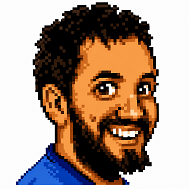
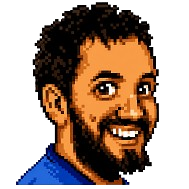
caras

diff --git a/js/gamelogic.js b/js/gamelogic.js
@@ -1,84 +1,5 @@
-const config = {
-    type: Phaser.AUTO, 
-    width: 800, 
-    height: 600, 
-    backgroundColor: '#2d862d',
-    contextOptions: {
-        willReadFrequently: true
-    },
-    scene: { 
-        preload: preload,
-        create: create 
-    }
-};
-
-const game = new Phaser.Game(config);
-
-function preload() {
-    this.load.image('fondoCancha', 'bg/penales.png');
-}
-
-function create() {
-    // 1. Dibujar el fondo estirado
-    let fondo = this.add.image(400, 300, 'fondoCancha');
-    fondo.setDisplaySize(800, 600);
-
-    // 2. MEDIDAS FINALES: Ajuste de 5px hacia arriba
-    const arcoX = 200;       // Centrado perfecto (va de 200 a 600)
-    const arcoY = 95;        // SUBIDO: El travesaño sube a Y=95 para calzar el madero superior
-    const arcoAncho = 400;   // El ancho que calzó perfecto
-    const arcoAlto = 135;    // COMPENSADO: Sumamos 5px de alto para mantener la base en el pasto
-
-    const celdaAncho = arcoAncho / 5; // 80px cada columna
-    const celdaAlto = arcoAlto / 3;   // 45px cada fila exacta
-
-    // Guardamos las medidas en window para usarlas en ejecutarDisparo
-    window.arcoConfig = {
-        x: arcoX,
-        y: arcoY,
-        anchoCelda: celdaAncho,
-        altoCelda: celdaAlto
-    };
-
-
-
-    window.marcadorTexto = this.add.text(400, 30, 'P1: 0 - CPU: 0', { fontSize: '32px', fill: '#ffffff', fontStyle: 'bold' }).setOrigin(0.5);
-    this.add.rectangle(400, 550, 200, 20, 0x555555);
-    window.barraTiempo = this.add.rectangle(300, 550, 200, 20, 0x00ff00).setOrigin(0, 0.5);
-    
-    // Pelota blanca arrancando más abajo cerca de tu HUD (Y=520)
-    window.ball = this.add.circle(400, 520, 15, 0xffffff).setStrokeStyle(2, 0x000000);
-
-    // Crear las 15 zonas interactivas rectangulares
-    for (let col = 0; col < 5; col++) {
-        for (let row = 0; row < 3; row++) {
-            let x = arcoX + (col * celdaAncho) + (celdaAncho / 2);
-            let y = arcoY + (row * celdaAlto) + (celdaAlto / 2);
-            
-            // Opacidad casi invisible para que aprecies el pixelart pero detecte el clic
-            let zona = this.add.rectangle(x, y, celdaAncho, celdaAlto, 0xff0000, 0.01).setStrokeStyle(1, 0xffffff, 0.15).setInteractive();
-            
-            zona.on('pointerdown', () => {
-                if (window.esTurnoP1 && !window.esperandoAtajada) {
-                    let arqueroCol = Math.floor(Math.random() * 5);
-                    let arqueroRow = Math.floor(Math.random() * 3);
-                    ejecutarDisparo(this, col, row, arqueroCol, arqueroRow, true);
-                } else if (window.esperandoAtajada) {
-                    window.tuColA = col; 
-                    window.tuRowA = row;
-                    let c = window.zonaGolCPU % 5;
-                    let r = Math.floor(window.zonaGolCPU / 5);
-                    ejecutarDisparo(this, c, r, window.tuColA, window.tuRowA, false);
-                }
-            });
-        }
-    }
-    
-    actualizarRetratos(this);
-    iniciarBarra(this, true);
-}
-
 function ejecutarDisparo(escena, colT, rowT, colA, rowA, esJugador) {
+    window.barraTiempo.scaleX = 1; 
     escena.tweens.killTweensOf(window.barraTiempo);
     
     colT = Math.max(0, Math.min(4, colT));
@@ -87,8 +8,6 @@ function ejecutarDisparo(escena, colT, rowT, colA, rowA, esJugador) {
     rowA = Math.max(0, Math.min(2, rowA));
 
     const cfg = window.arcoConfig;
-
-    // Coordenadas calculadas en base al arco estirado
     let xT = cfg.x + (colT * cfg.anchoCelda) + (cfg.anchoCelda / 2);
     let yT = cfg.y + (rowT * cfg.altoCelda) + (cfg.altoCelda / 2);
     let xA = cfg.x + (colA * cfg.anchoCelda) + (cfg.anchoCelda / 2);
@@ -101,21 +20,21 @@ function ejecutarDisparo(escena, colT, rowT, colA, rowA, esJugador) {
         tipoResultado = "PALO";
         let elegirPalo = Math.random();
         if (elegirPalo < 0.4) { 
-            xT = cfg.x; // Palo izquierdo real
+            xT = cfg.x; 
         } else if (elegirPalo < 0.8) { 
-            xT = cfg.x + (cfg.anchoCelda * 5); // Palo derecho real
+            xT = cfg.x + 400; 
         } else { 
-            xT = Math.floor(Math.random() * ((cfg.x + cfg.anchoCelda * 5) - cfg.x + 1)) + cfg.x; 
-            yT = cfg.y; // Travesaño real
+            xT = Math.floor(Math.random() * ((cfg.x + 400) - cfg.x + 1)) + cfg.x; 
+            yT = cfg.y; 
         }
     } else if (rng < 0.15) {
         tipoResultado = "AFUERA";
         let elegirAfuera = Math.random();
         if (elegirAfuera < 0.33) { 
-            xT = Math.floor(Math.random() * ((cfg.x - 10) - (cfg.x - 60) + 1)) + (cfg.x - 60); 
+            xT = Math.floor(Math.random() * ((cfg.x - 10) - (cfg.x - 50) + 1)) + (cfg.x - 50); 
         } else if (elegirAfuera < 0.66) { 
-            let limiteDer = cfg.x + (cfg.anchoCelda * 5);
-            xT = Math.floor(Math.random() * ((limiteDer + 60) - (limiteDer + 10) + 1)) + (limiteDer + 10); 
+            let limiteDer = cfg.x + 400; 
+            xT = Math.floor(Math.random() * ((limiteDer + 50) - (limiteDer + 10) + 1)) + (limiteDer + 10); 
         } else { 
             yT = Math.floor(Math.random() * ((cfg.y - 10) - (cfg.y - 50) + 1)) + (cfg.y - 50); 
         }
@@ -125,22 +44,13 @@ function ejecutarDisparo(escena, colT, rowT, colA, rowA, esJugador) {
     
     if(window.rectTiro) window.rectTiro.destroy(); 
     if(window.rectArquero) window.rectArquero.destroy();
-    
-    // Dibujamos las marcas rectangulares estables sobre las dimensiones reales del arco
     window.rectTiro = escena.add.rectangle(cfg.x + (colT * cfg.anchoCelda) + (cfg.anchoCelda / 2), cfg.y + (rowT * cfg.altoCelda) + (cfg.altoCelda / 2), cfg.anchoCelda, cfg.altoCelda).setStrokeStyle(4, 0x3366ff);
     window.rectArquero = escena.add.rectangle(xA, yA, cfg.anchoCelda, cfg.altoCelda).setStrokeStyle(4, esJugador ? 0xff6666 : 0x66ff66);
 
-    // Resetear escala de la pelota antes del tiro por si acaso
     window.ball.setScale(1);
 
-    // Animación del tiro con EFECTO 3D (Se desplaza y se achica a la mitad)
     escena.tweens.add({
-        targets: window.ball,
-        x: xT,
-        y: yT,
-        scaleX: 0.5, // AGREGADO: Se achica simulando distancia
-        scaleY: 0.5,
-        duration: 500,
+        targets: window.ball, x: xT, y: yT, scaleX: 0.5, scaleY: 0.5, duration: 500,
         onComplete: () => {
             if (tipoResultado === "NORMAL" && !esAtajado) {
                 esJugador ? window.golesP1++ : window.golesCPU++;
@@ -155,28 +65,22 @@ function ejecutarDisparo(escena, colT, rowT, colA, rowA, esJugador) {
             
             escena.time.delayedCall(1000, () => {
                 window.ball.setPosition(400, 520);
-                window.ball.setScale(1); // Reset de tamaño para el próximo tiro
+                window.ball.setScale(1); 
                 dibujarHUD(escena);
 
                 if (esJugador) {
-                    window.esperandoAtajada = true; 
-                    window.esTurnoP1 = false;
-                    actualizarRetratos(escena); 
-                    iniciarBarra(escena, false);
+                    window.esperandoAtajada = true; window.esTurnoP1 = false;
+                    actualizarRetratos(escena); iniciarBarra(escena, false);
                 } else {
-                    window.esperandoAtajada = false; 
-                    window.esTurnoP1 = true; 
-                    window.ronda++;
+                    window.esperandoAtajada = false; window.esTurnoP1 = true; window.ronda++;
                     window.tuColA = 2; window.tuRowA = 1;
-                    
                     if (verificarFinPartido()) {
                         escena.time.delayedCall(50, () => {
                             alert(`¡Tanda Finalizada!\nResultado: P1 ${window.golesP1} - CPU ${window.golesCPU}`);
                             location.reload();
                         });
                     } else {
-                        actualizarRetratos(escena); 
-                        iniciarBarra(escena, true);
+                        actualizarRetratos(escena); iniciarBarra(escena, true);
                     }
                 }
             });
@@ -187,13 +91,10 @@ function ejecutarDisparo(escena, colT, rowT, colA, rowA, esJugador) {
 function iniciarBarra(escena, esJugador) {
     window.barraTiempo.scaleX = 1;
     escena.tweens.killTweensOf(window.barraTiempo);
-
     if (window.rectTiro) { window.rectTiro.destroy(); window.rectTiro = null; }
     if (window.rectArquero) { window.rectArquero.destroy(); window.rectArquero = null; }
 
-    if (!esJugador) {
-        window.zonaGolCPU = Math.floor(Math.random() * 15);
-    }
+    if (!esJugador) { window.zonaGolCPU = Math.floor(Math.random() * 15); }
 
     escena.tweens.add({ 
         targets: window.barraTiempo, scaleX: 0, duration: 3000, 
@@ -211,17 +112,13 @@ function iniciarBarra(escena, esJugador) {
 function verificarFinPartido() {
     let tirosP1 = window.historialP1.length;
     let tirosCPU = window.historialCPU.length;
-    
     if (tirosP1 !== tirosCPU) return false;
-    
     let restantes = Math.max(0, 5 - tirosP1);
-
     if (tirosP1 <= 5) {
         if (window.golesP1 > window.golesCPU + restantes) return true;
         if (window.golesCPU > window.golesP1 + restantes) return true;
         if (tirosP1 === 5 && window.golesP1 !== window.golesCPU) return true;
         return false;
     }
-    
     return (window.golesP1 !== window.golesCPU);
 }

diff --git a/js/main.js b/js/main.js
@@ -1,9 +1,8 @@
-const config = {
+const phaserConfig = {
     type: Phaser.AUTO, 
     width: 800, 
     height: 600, 
     backgroundColor: '#2d862d',
-    // FIX: Esto le avisa al navegador que optimice las lecturas repetidas de imágenes
     contextOptions: {
         willReadFrequently: true
     },
@@ -13,59 +12,64 @@ const config = {
     }
 };
 
-const game = new Phaser.Game(config);
+const game = new Phaser.Game(phaserConfig);
 
-
-// AGREGADO: Función para cargar la imagen de fondo antes de que empiece el juego
 function preload() {
+    // 1. Cargar fondo de cancha
     this.load.image('fondoCancha', 'bg/penales.png');
 
-this.load.image('El Negrouu', 'players/negrouu.png');
+    // 2. Carga de fotos apuntando a tus archivos físicos reales en minúsculas
+    this.load.image('El Negrouu', 'players/negrouu.png');
     this.load.image('Sebu', 'players/sebu.png');
     this.load.image('Chino', 'players/chino.png');
     this.load.image('Juano', 'players/juano.png');
     this.load.image('Nahui', 'players/nahui.png');
 
-    // Equipo Ranchos FC (BRA)
     this.load.image('Rolo', 'players/rolo.png');
     this.load.image('El Gibe', 'players/gibe.png');
     this.load.image('Santos', 'players/santos.png');
     this.load.image('El Oscar', 'players/oscar.png');
     this.load.image('Caralucas', 'players/caralucas.png');
 }
-function create() {
-    // 1. DIBUJAR EL FONDO PRIMERO (Para que todo lo demás se dibuje arriba)
-    // El fondo se posiciona en el centro de la pantalla (400, 300)
-    let fondo = this.add.image(400, 300, 'fondoCancha');
-    
-    // Opcional: Si tu imagen no mide justo 800x600, descomentá la línea de abajo para estirarla
-    // fondo.setDisplaySize(800, 600);
 
-    // 2. Dibujar el arco de fondo blanco con borde negro
-    // Nota: Si tu imagen ya trae el arco dibujado, podés borrar o comentar esta línea
-    this.add.rectangle(400, 150, 400, 200, 0xffffff, 0.2).setStrokeStyle(4, 0x000000);
-    
-    // Guardamos las referencias en el objeto global "window"
+function create() {
+    // Dibujar fondo estirado
+    let fondo = this.add.image(400, 300, 'fondoCancha');
+    fondo.setDisplaySize(800, 600);
+
+    // Medidas definitivas del arco
+    const arcoX = 200;       
+    const arcoY = 95;        
+    const arcoAncho = 400;   
+    const arcoAlto = 135;    
+
+    const celdaAncho = arcoAncho / 5; 
+    const celdaAlto = arcoAlto / 3;   
+
+    window.arcoConfig = {
+        x: arcoX,
+        y: arcoY,
+        anchoCelda: celdaAncho,
+        altoCelda: celdaAlto
+    };
+
     window.marcadorTexto = this.add.text(400, 30, 'P1: 0 - CPU: 0', { fontSize: '32px', fill: '#ffffff', fontStyle: 'bold' }).setOrigin(0.5);
     this.add.rectangle(400, 550, 200, 20, 0x555555);
     window.barraTiempo = this.add.rectangle(300, 550, 200, 20, 0x00ff00).setOrigin(0, 0.5);
-    window.ball = this.add.circle(400, 500, 15, 0xffffff).setStrokeStyle(2, 0x000000);
+    window.ball = this.add.circle(400, 520, 15, 0xffffff).setStrokeStyle(2, 0x000000);
 
-    // Crear las 15 zonas interactivas del arco (5 columnas x 3 filas)
+    // Crear las 15 zonas interactuables
     for (let col = 0; col < 5; col++) {
         for (let row = 0; row < 3; row++) {
-            let x = 200 + (col * 80) + 40;
-            let y = 50 + (row * 66.6) + 33;
-            
-            // Bajamos la opacidad del rojo a 0.05 para que no te tape tu nueva imagen de fondo
-            let zona = this.add.rectangle(x, y, 80, 66.6, 0xff0000, 0.05).setStrokeStyle(1, 0xffffff, 0.3).setInteractive();
+            let x = arcoX + (col * celdaAncho) + (celdaAncho / 2);
+            let y = arcoY + (row * celdaAlto) + (celdaAlto / 2);
+            let zona = this.add.rectangle(x, y, celdaAncho, celdaAlto, 0xff0000, 0.01).setStrokeStyle(1, 0xffffff, 0.15).setInteractive();
             
             zona.on('pointerdown', () => {
                 if (window.esTurnoP1 && !window.esperandoAtajada) {
                     let arqueroCol = Math.floor(Math.random() * 5);
                     let arqueroRow = Math.floor(Math.random() * 3);
                     ejecutarDisparo(this, col, row, arqueroCol, arqueroRow, true);
-
                 } else if (window.esperandoAtajada) {
                     window.tuColA = col; 
                     window.tuRowA = row;

diff --git a/js/hud.js b/js/hud.js
@@ -1,7 +1,6 @@
 function dibujarHUD(escena) {
     let viejos = escena.children.getAll().filter(obj => obj.name === 'hudCirculo');
     viejos.forEach(obj => obj.destroy());
-    
     let tandaActual = Math.floor((window.historialP1.length - 1) / 5);
     if (tandaActual < 0) tandaActual = 0;
     let indiceInicio = tandaActual * 5;
@@ -24,46 +23,36 @@ function actualizarRetratos(escena) {
 
     let datosP1 = window.baseDeDatosEquipos[window.equipoSeleccionadoP1];
     let datosCPU = window.baseDeDatosEquipos[window.equipoSeleccionadoCPU];
-
-    // FIX: Ahora modificado para dividir entre 4 pateadores (% 4)
-    let idxJugador = window.ronda % 4;
+    let idxJugador = window.ronda % 4; // Rotación entre tus 4 jugadores
 
     window.retratoIzquierdo = escena.add.container(75, 410);
     window.retratoDerecho = escena.add.container(725, 410);
 
     if (window.esTurnoP1 && !window.esperandoAtajada) {
-        // TURNO: P1 Pateador vs CPU Arquero
         let nombrePateador = datosP1.pateadores[idxJugador];
         let nombreArquero = datosCPU.arquero;
 
-        // --- IZQUIERDA: P1 PATEANDO ---
         let marcoIzq = escena.add.rectangle(0, 0, 100, 110, datosP1.colorRopa).setStrokeStyle(3, 0xffffff);
         let imgIzq = escena.add.image(0, 0, nombrePateador).setDisplaySize(94, 104);
-        // TEXTO ABAJO: Cartelera oscura debajo de la card
         let cartelIzq = escena.add.rectangle(0, 75, 110, 34, 0x111111, 0.8).setStrokeStyle(1, 0xffffff);
         let txtIzq = escena.add.text(0, 75, `${nombrePateador}\n(PATEA)`, { fontSize: '11px', fill: '#ffffff', align: 'center', fontStyle: 'bold' }).setOrigin(0.5);
         window.retratoIzquierdo.add([marcoIzq, imgIzq, cartelIzq, txtIzq]);
 
-        // --- DERECHA: CPU ATAJANDO ---
         let marcoDer = escena.add.rectangle(0, 0, 100, 110, datosCPU.colorRopa).setStrokeStyle(3, 0xffffff);
         let imgDer = escena.add.image(0, 0, nombreArquero).setDisplaySize(94, 104);
         let cartelDer = escena.add.rectangle(0, 75, 110, 34, 0x111111, 0.8).setStrokeStyle(1, 0xffffff);
         let txtDer = escena.add.text(0, 75, `${nombreArquero}\n(ARQUERO)`, { fontSize: '11px', fill: '#ffffff', align: 'center', fontStyle: 'bold' }).setOrigin(0.5);
         window.retratoDerecho.add([marcoDer, imgDer, cartelDer, txtDer]);
-
     } else {
-        // TURNO: P1 Arquero vs CPU Pateador
         let nombreArquero = datosP1.arquero;
         let nombrePateador = datosCPU.pateadores[idxJugador];
 
-        // --- IZQUIERDA: P1 ATAJANDO ---
         let marcoIzq = escena.add.rectangle(0, 0, 100, 110, datosP1.colorRopa).setStrokeStyle(3, 0xffffff);
         let imgIzq = escena.add.image(0, 0, nombreArquero).setDisplaySize(94, 104);
         let cartelIzq = escena.add.rectangle(0, 75, 110, 34, 0x111111, 0.8).setStrokeStyle(1, 0xffffff);
         let txtIzq = escena.add.text(0, 75, `${nombreArquero}\n(ARQUERO)`, { fontSize: '11px', fill: '#ffffff', align: 'center', fontStyle: 'bold' }).setOrigin(0.5);
         window.retratoIzquierdo.add([marcoIzq, imgIzq, cartelIzq, txtIzq]);
 
-        // --- DERECHA: CPU PATEANDO ---
         let marcoDer = escena.add.rectangle(0, 0, 100, 110, datosCPU.colorRopa).setStrokeStyle(3, 0xffffff);
         let imgDer = escena.add.image(0, 0, nombrePateador).setDisplaySize(94, 104);
         let cartelDer = escena.add.rectangle(0, 75, 110, 34, 0x111111, 0.8).setStrokeStyle(1, 0xffffff);

diff --git a/js/config.js b/js/config.js
@@ -11,12 +11,12 @@ window.marcadorTexto = null;
 window.barraTiempo = null;
 window.rectTiro = null;
 window.rectArquero = null;
-window.tuColA = 2;
-window.tuRowA = 1;
+window.tuColA = 2; // Columna central por defecto
+window.tuRowA = 1; // Fila central por defecto
 window.retratoIzquierdo = null;
 window.retratoDerecho = null;
 
-// BASE DE DATOS DE EQUIPOS
+// Base de datos oficial de tus plantillas
 window.baseDeDatosEquipos = {
     "ARG": {
         nombre: "Indio Malo",